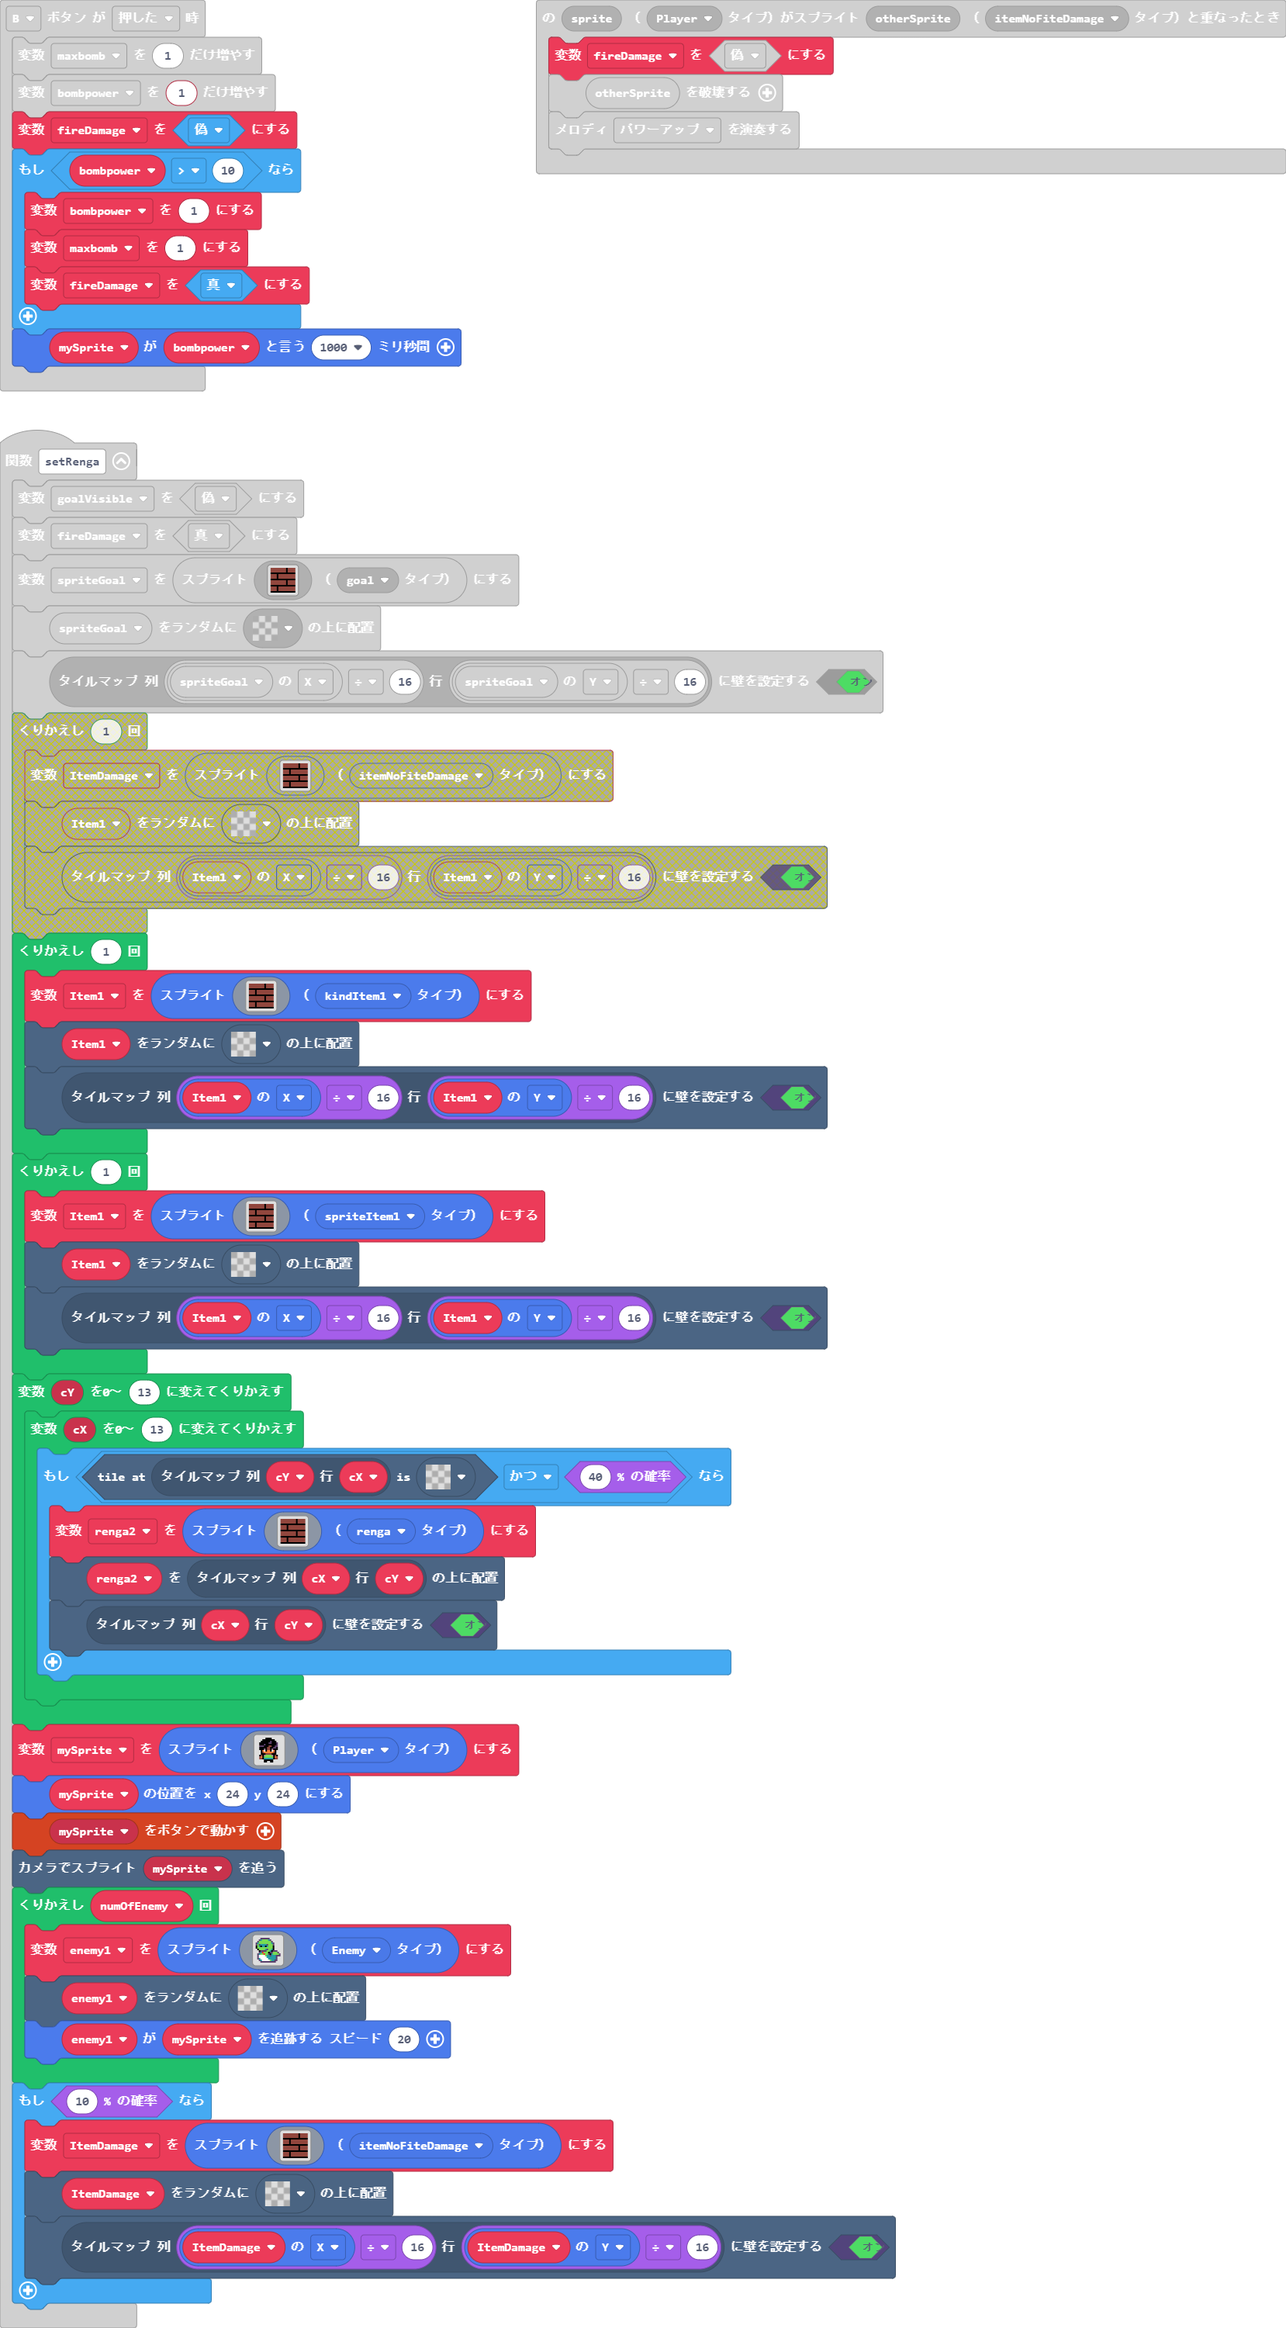
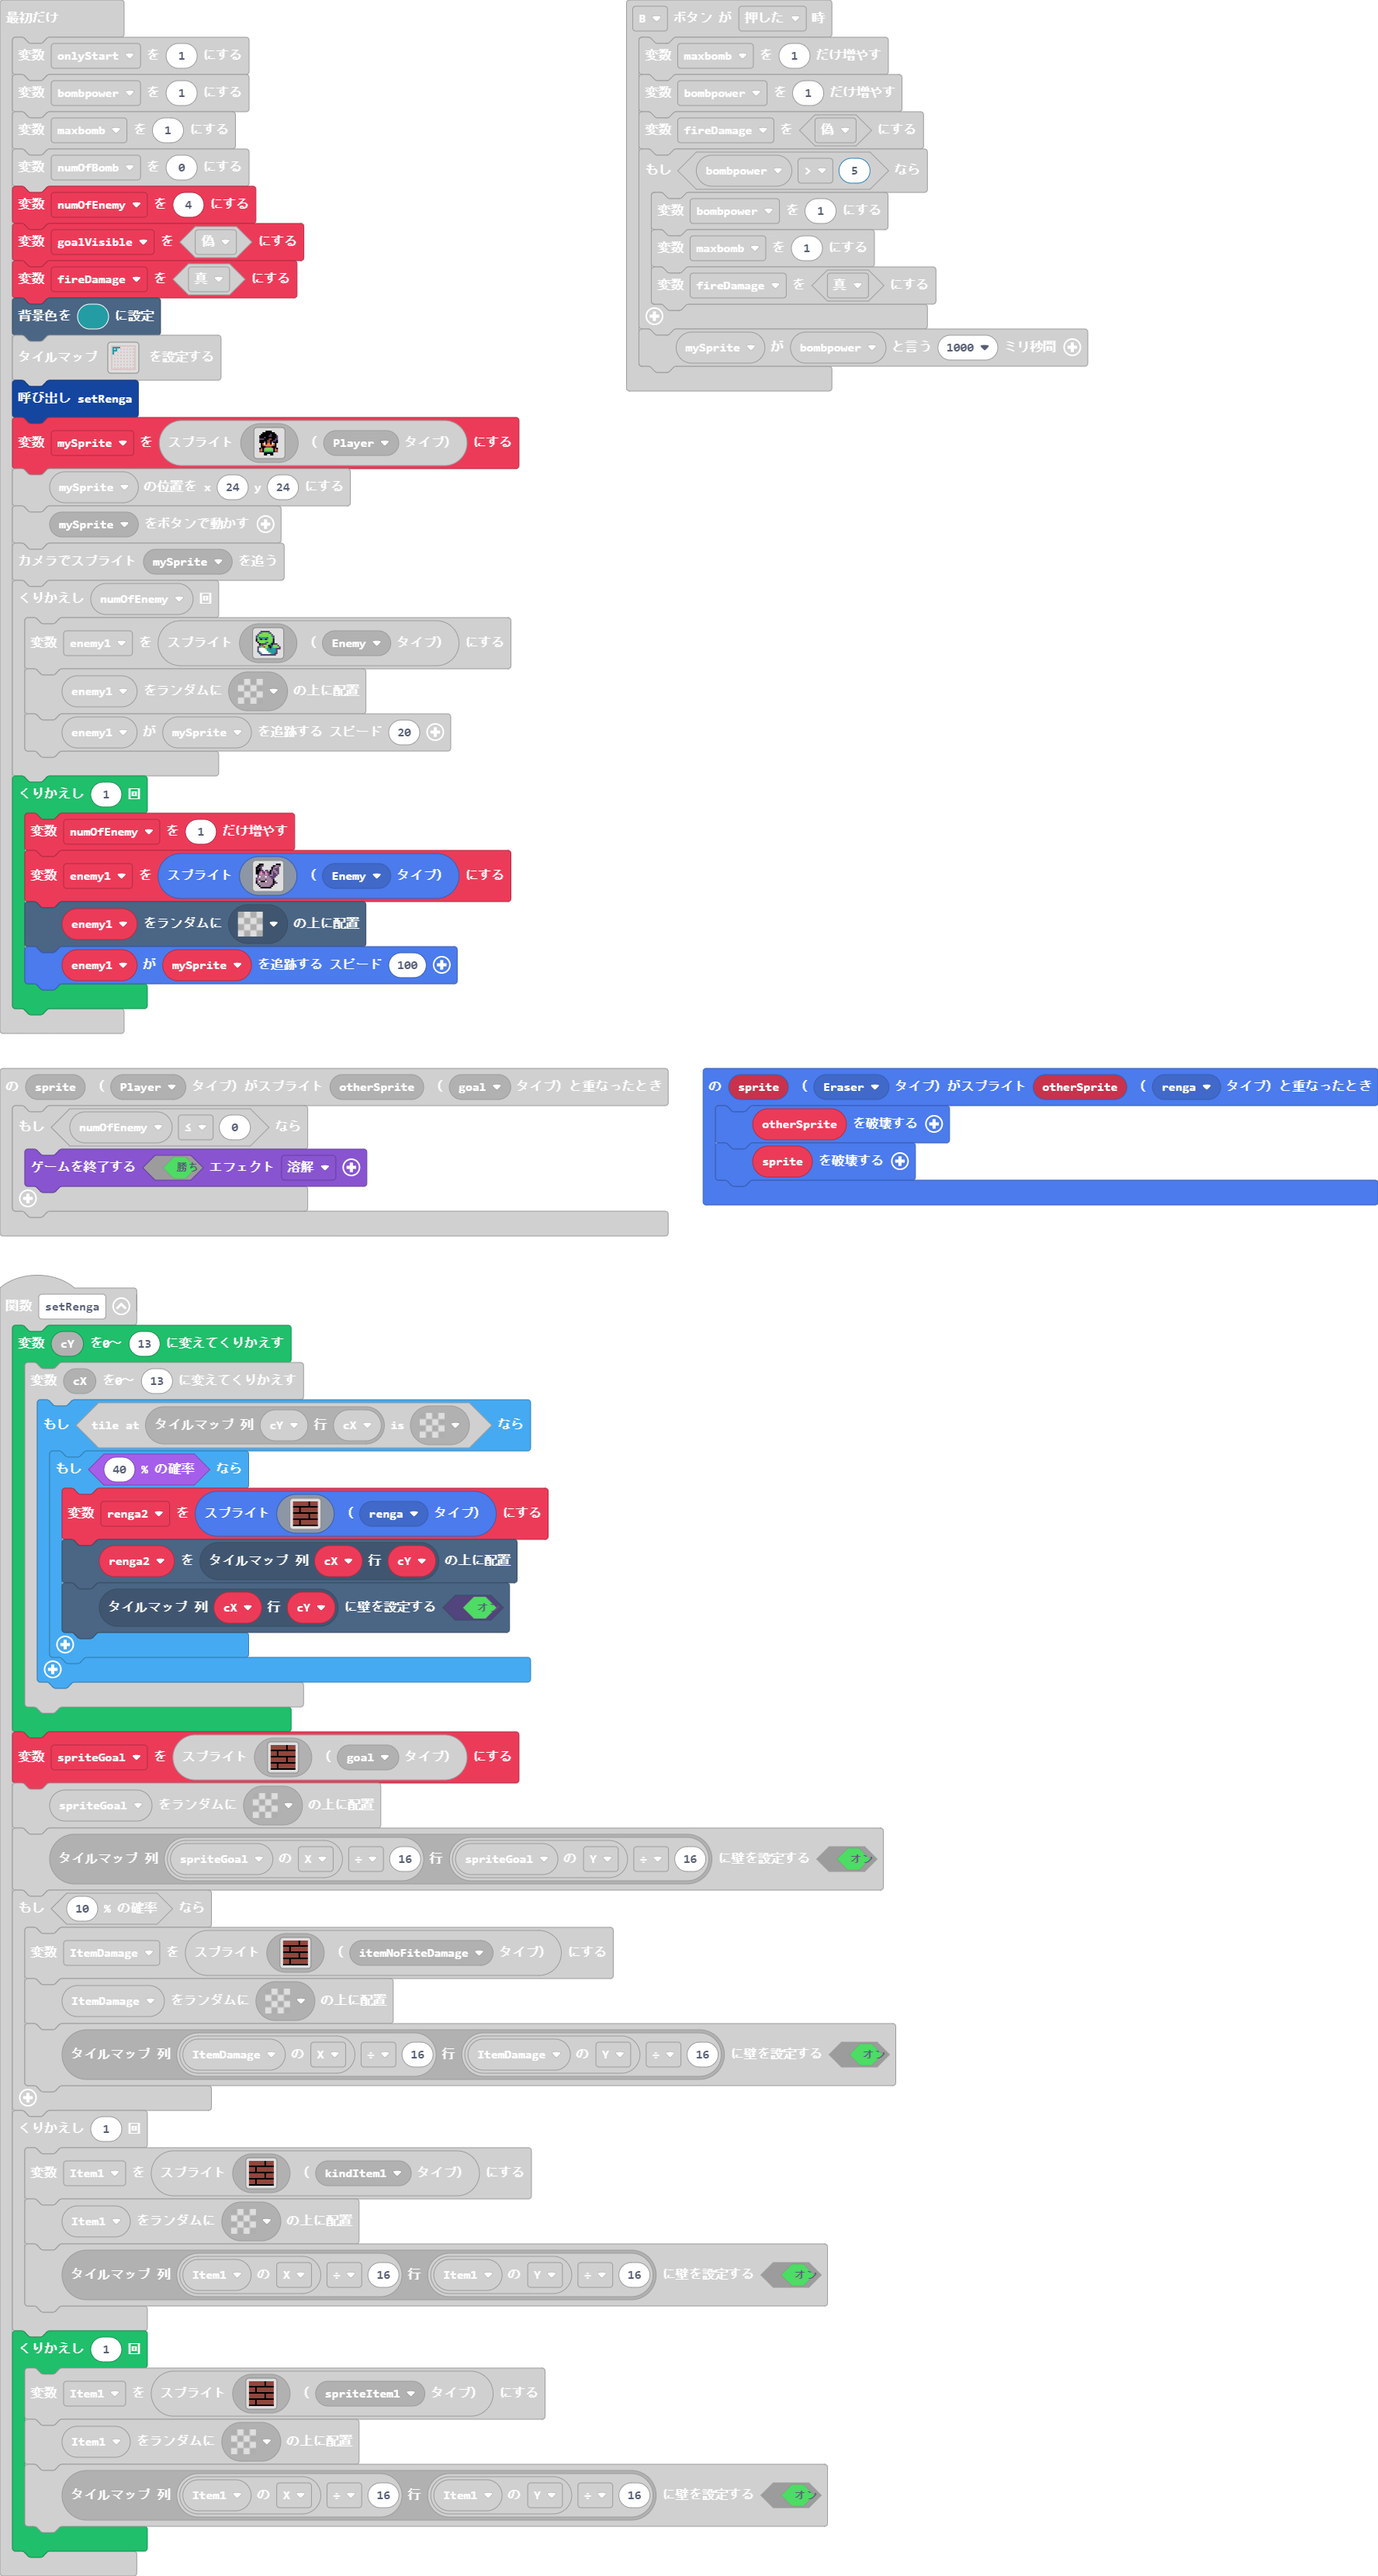
更新 main.blocks, main.ts

diff --git a/main.ts b/main.ts
@@ -8,6 +8,8 @@ namespace SpriteKind {
     export const fire1 = SpriteKind.create()
     export const check = SpriteKind.create()
     export const itemNoFiteDamage = SpriteKind.create()
+    export const Eraser = SpriteKind.create()
+    export const Enemy2 = SpriteKind.create()
 }
 sprites.onOverlap(SpriteKind.fire, SpriteKind.itemNoFiteDamage, function (sprite, otherSprite) {
     otherSprite.setImage(img`
@@ -113,8 +115,34 @@ sprites.onOverlap(SpriteKind.fire, SpriteKind.renga, function (sprite, otherSpri
     otherSprite.destroy()
 })
 function setRenga () {
-    goalVisible = false
-    fireDamage = true
+    for (let cY = 0; cY <= 13; cY++) {
+        for (let cX = 0; cX <= 13; cX++) {
+            if (tiles.tileAtLocationEquals(tiles.getTileLocation(cY, cX), assets.tile`transparency16`)) {
+                if (Math.percentChance(40)) {
+                    renga2 = sprites.create(img`
+                        e e e e e e e e e e f e e e e e 
+                        e e e e e e e e e e f e e e e e 
+                        e e e e e e e e e e f e e e e e 
+                        f f f f f f f f f f f f f f f f 
+                        e e e e f e e e e e e e e e e e 
+                        e e e e f e e e e e e e e e e e 
+                        e e e e f e e e e e e e e e e e 
+                        f f f f f f f f f f f f f f f f 
+                        e e e e e e e e e e f e e e e e 
+                        e e e e e e e e e e f e e e e e 
+                        e e e e e e e e e e f e e e e e 
+                        f f f f f f f f f f f f f f f f 
+                        e e e e f e e e e e e e e e e e 
+                        e e e e f e e e e e e e e e e e 
+                        e e e e f e e e e e e e e e e e 
+                        f f f f f f f f f f f f f f f f 
+                        `, SpriteKind.renga)
+                    tiles.placeOnTile(renga2, tiles.getTileLocation(cX, cY))
+                    tiles.setWallAt(tiles.getTileLocation(cX, cY), true)
+                }
+            }
+        }
+    }
     spriteGoal = sprites.create(img`
         e e e e e e e e e e f e e e e e 
         e e e e e e e e e e f e e e e e 
@@ -200,75 +228,6 @@ function setRenga () {
             `, SpriteKind.spriteItem1)
         tiles.placeOnRandomTile(Item1, assets.tile`transparency16`)
         tiles.setWallAt(tiles.getTileLocation(Item1.x / 16, Item1.y / 16), true)
-    }
-    for (let cY = 0; cY <= 13; cY++) {
-        for (let cX = 0; cX <= 13; cX++) {
-            if (tiles.tileAtLocationEquals(tiles.getTileLocation(cY, cX), assets.tile`transparency16`) && Math.percentChance(40)) {
-                renga2 = sprites.create(img`
-                    e e e e e e e e e e f e e e e e 
-                    e e e e e e e e e e f e e e e e 
-                    e e e e e e e e e e f e e e e e 
-                    f f f f f f f f f f f f f f f f 
-                    e e e e f e e e e e e e e e e e 
-                    e e e e f e e e e e e e e e e e 
-                    e e e e f e e e e e e e e e e e 
-                    f f f f f f f f f f f f f f f f 
-                    e e e e e e e e e e f e e e e e 
-                    e e e e e e e e e e f e e e e e 
-                    e e e e e e e e e e f e e e e e 
-                    f f f f f f f f f f f f f f f f 
-                    e e e e f e e e e e e e e e e e 
-                    e e e e f e e e e e e e e e e e 
-                    e e e e f e e e e e e e e e e e 
-                    f f f f f f f f f f f f f f f f 
-                    `, SpriteKind.renga)
-                tiles.placeOnTile(renga2, tiles.getTileLocation(cX, cY))
-                tiles.setWallAt(tiles.getTileLocation(cX, cY), true)
-            }
-        }
-    }
-    mySprite = sprites.create(img`
-        . . . . f f f f . . . . . 
-        . . f f f f f f f f . . . 
-        . f f f f f f c f f f . . 
-        f f f f f f c c f f f c . 
-        f f f c f f f f f f f c . 
-        c c c f f f e e f f c c . 
-        f f f f f e e f f c c f . 
-        f f f b f e e f b f f f . 
-        . f 4 1 f 4 4 f 1 4 f . . 
-        . f e 4 4 4 4 4 4 e f . . 
-        . f f f e e e e f f f . . 
-        f e f b 7 7 7 7 b f e f . 
-        e 4 f 7 7 7 7 7 7 f 4 e . 
-        e e f 6 6 6 6 6 6 f e e . 
-        . . . f f f f f f . . . . 
-        . . . f f . . f f . . . . 
-        `, SpriteKind.Player)
-    mySprite.setPosition(24, 24)
-    controller.moveSprite(mySprite)
-    scene.cameraFollowSprite(mySprite)
-    for (let index = 0; index < numOfEnemy; index++) {
-        enemy1 = sprites.create(img`
-            . . . c c c c c c . . . . . . . 
-            . . c 6 7 7 7 7 6 c . . . . . . 
-            . c 7 7 7 7 7 7 7 7 c . . . . . 
-            c 6 7 7 7 7 7 7 7 7 6 c . . . . 
-            c 7 c 6 6 6 6 c 7 7 7 c . . . . 
-            f 7 6 f 6 6 f 6 7 7 7 f . . . . 
-            f 7 7 7 7 7 7 7 7 7 7 f . . . . 
-            . f 7 7 7 7 6 c 7 7 6 f . . . . 
-            . . f c c c c 7 7 6 f c c c . . 
-            . . c 6 2 7 7 7 f c c 7 7 7 c . 
-            . c 6 7 7 2 7 7 c f 6 7 7 7 7 c 
-            . c 1 1 1 1 7 6 6 c 6 6 6 c c c 
-            . c 1 1 1 1 1 6 6 6 6 6 6 c . . 
-            . c 6 1 1 1 1 1 6 6 6 6 6 c . . 
-            . . c 6 1 1 1 1 1 7 6 6 c c . . 
-            . . . c c c c c c c c c c . . . 
-            `, SpriteKind.Enemy)
-        tiles.placeOnRandomTile(enemy1, assets.tile`transparency16`)
-        enemy1.follow(mySprite, 20)
     }
 }
 sprites.onOverlap(SpriteKind.Player, SpriteKind.fire, function (sprite, otherSprite) {
@@ -368,11 +327,15 @@ sprites.onOverlap(SpriteKind.fire, SpriteKind.spriteItem1, function (sprite, oth
         `)
     tiles.setWallAt(tiles.getTileLocation(otherSprite.x / 16, otherSprite.y / 16), false)
 })
+sprites.onOverlap(SpriteKind.Eraser, SpriteKind.renga, function (sprite, otherSprite) {
+    otherSprite.destroy()
+    sprite.destroy()
+})
 controller.B.onEvent(ControllerButtonEvent.Pressed, function () {
     maxbomb += 1
     bombpower += 1
     fireDamage = false
-    if (bombpower > 10) {
+    if (bombpower > 5) {
         bombpower = 1
         maxbomb = 1
         fireDamage = true
@@ -386,7 +349,7 @@ sprites.onOverlap(SpriteKind.Enemy, SpriteKind.renga, function (sprite, otherSpr
 })
 sprites.onOverlap(SpriteKind.Player, SpriteKind.goal, function (sprite, otherSprite) {
     if (numOfEnemy <= 0) {
-        game.over(true, effects.splatter)
+        game.over(true, effects.dissolve)
     }
 })
 controller.up.onEvent(ControllerButtonEvent.Pressed, function () {
@@ -569,14 +532,14 @@ let fireU: Sprite = null
 let fireD: Sprite = null
 let fireL: Sprite = null
 let fireR: Sprite = null
-let enemy1: Sprite = null
-let renga2: Sprite = null
 let Item1: Sprite = null
 let ItemDamage: Sprite = null
 let spriteGoal: Sprite = null
+let renga2: Sprite = null
+let enemy1: Sprite = null
+let mySprite: Sprite = null
 let fireDamage = false
 let goalVisible = false
-let mySprite: Sprite = null
 let numOfEnemy = 0
 let numOfBomb = 0
 let maxbomb = 0
@@ -587,6 +550,74 @@ bombpower = 1
 maxbomb = 1
 numOfBomb = 0
 numOfEnemy = 4
+goalVisible = false
+fireDamage = true
 scene.setBackgroundColor(6)
 tiles.setTilemap(tilemap`レベル1`)
 setRenga()
+mySprite = sprites.create(img`
+    . . . . f f f f . . . . . 
+    . . f f f f f f f f . . . 
+    . f f f f f f c f f f . . 
+    f f f f f f c c f f f c . 
+    f f f c f f f f f f f c . 
+    c c c f f f e e f f c c . 
+    f f f f f e e f f c c f . 
+    f f f b f e e f b f f f . 
+    . f 4 1 f 4 4 f 1 4 f . . 
+    . f e 4 4 4 4 4 4 e f . . 
+    . f f f e e e e f f f . . 
+    f e f b 7 7 7 7 b f e f . 
+    e 4 f 7 7 7 7 7 7 f 4 e . 
+    e e f 6 6 6 6 6 6 f e e . 
+    . . . f f f f f f . . . . 
+    . . . f f . . f f . . . . 
+    `, SpriteKind.Player)
+mySprite.setPosition(24, 24)
+controller.moveSprite(mySprite)
+scene.cameraFollowSprite(mySprite)
+for (let index = 0; index < numOfEnemy; index++) {
+    enemy1 = sprites.create(img`
+        . . . c c c c c c . . . . . . . 
+        . . c 6 7 7 7 7 6 c . . . . . . 
+        . c 7 7 7 7 7 7 7 7 c . . . . . 
+        c 6 7 7 7 7 7 7 7 7 6 c . . . . 
+        c 7 c 6 6 6 6 c 7 7 7 c . . . . 
+        f 7 6 f 6 6 f 6 7 7 7 f . . . . 
+        f 7 7 7 7 7 7 7 7 7 7 f . . . . 
+        . f 7 7 7 7 6 c 7 7 6 f . . . . 
+        . . f c c c c 7 7 6 f c c c . . 
+        . . c 6 2 7 7 7 f c c 7 7 7 c . 
+        . c 6 7 7 2 7 7 c f 6 7 7 7 7 c 
+        . c 1 1 1 1 7 6 6 c 6 6 6 c c c 
+        . c 1 1 1 1 1 6 6 6 6 6 6 c . . 
+        . c 6 1 1 1 1 1 6 6 6 6 6 c . . 
+        . . c 6 1 1 1 1 1 7 6 6 c c . . 
+        . . . c c c c c c c c c c . . . 
+        `, SpriteKind.Enemy)
+    tiles.placeOnRandomTile(enemy1, assets.tile`transparency16`)
+    enemy1.follow(mySprite, 20)
+}
+for (let index = 0; index < 1; index++) {
+    numOfEnemy += 1
+    enemy1 = sprites.create(img`
+        . . f f f . . . . . . . . f f f 
+        . f f c c . . . . . . f c b b c 
+        f f c c . . . . . . f c b b c . 
+        f c f c . . . . . . f b c c c . 
+        f f f c c . c c . f c b b c c . 
+        f f c 3 c c 3 c c f b c b b c . 
+        f f b 3 b c 3 b c f b c c b c . 
+        . c b b b b b b c b b c c c . . 
+        . c 1 b b b 1 b b c c c c . . . 
+        c b b b b b b b b b c c . . . . 
+        c b c b b b c b b b b f . . . . 
+        f b 1 f f f 1 b b b b f c . . . 
+        f b b b b b b b b b b f c c . . 
+        . f b b b b b b b b c f . . . . 
+        . . f b b b b b b c f . . . . . 
+        . . . f f f f f f f . . . . . . 
+        `, SpriteKind.Enemy)
+    tiles.placeOnRandomTile(enemy1, assets.tile`transparency16`)
+    enemy1.follow(mySprite, 100)
+}
